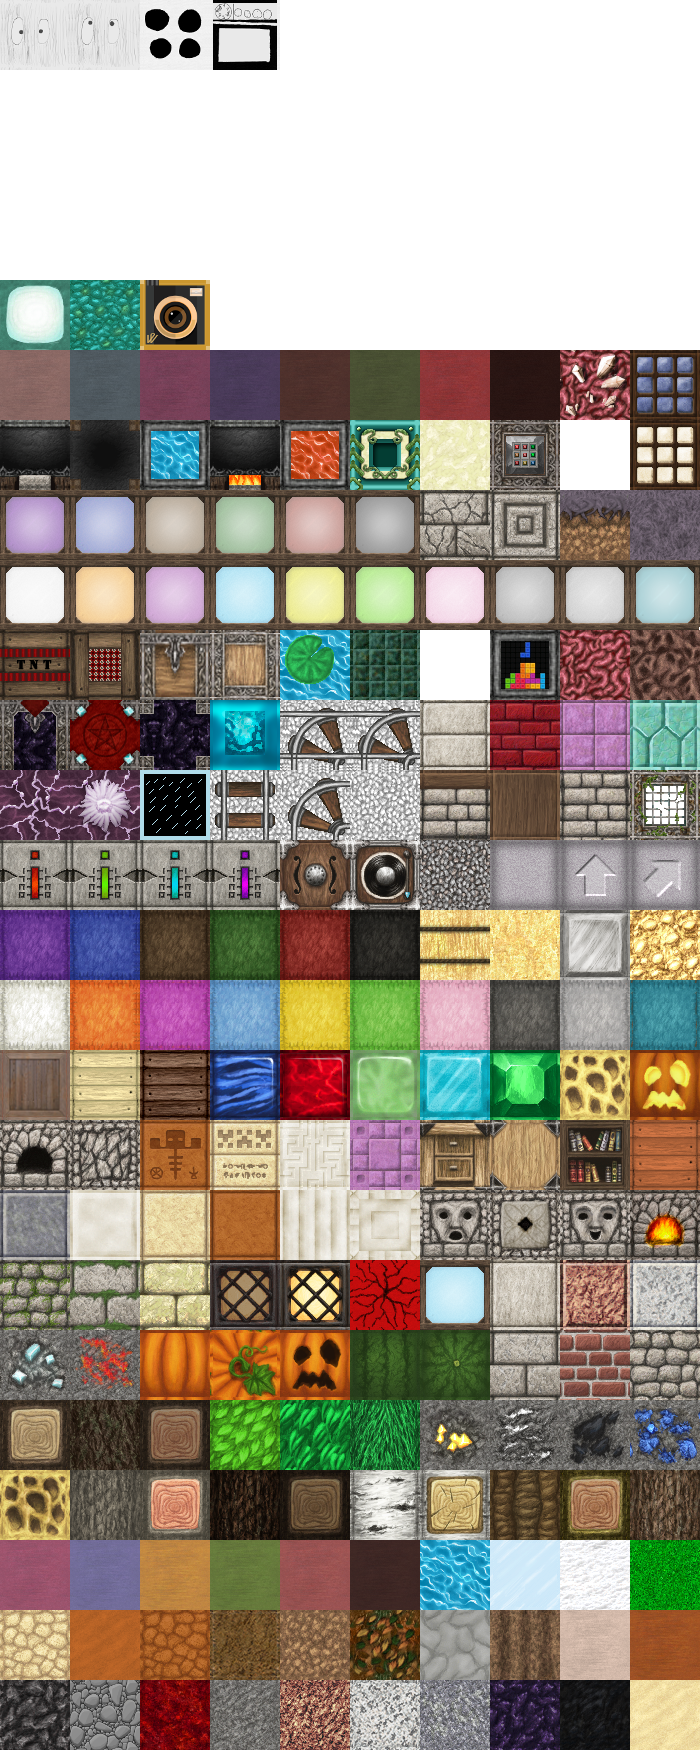
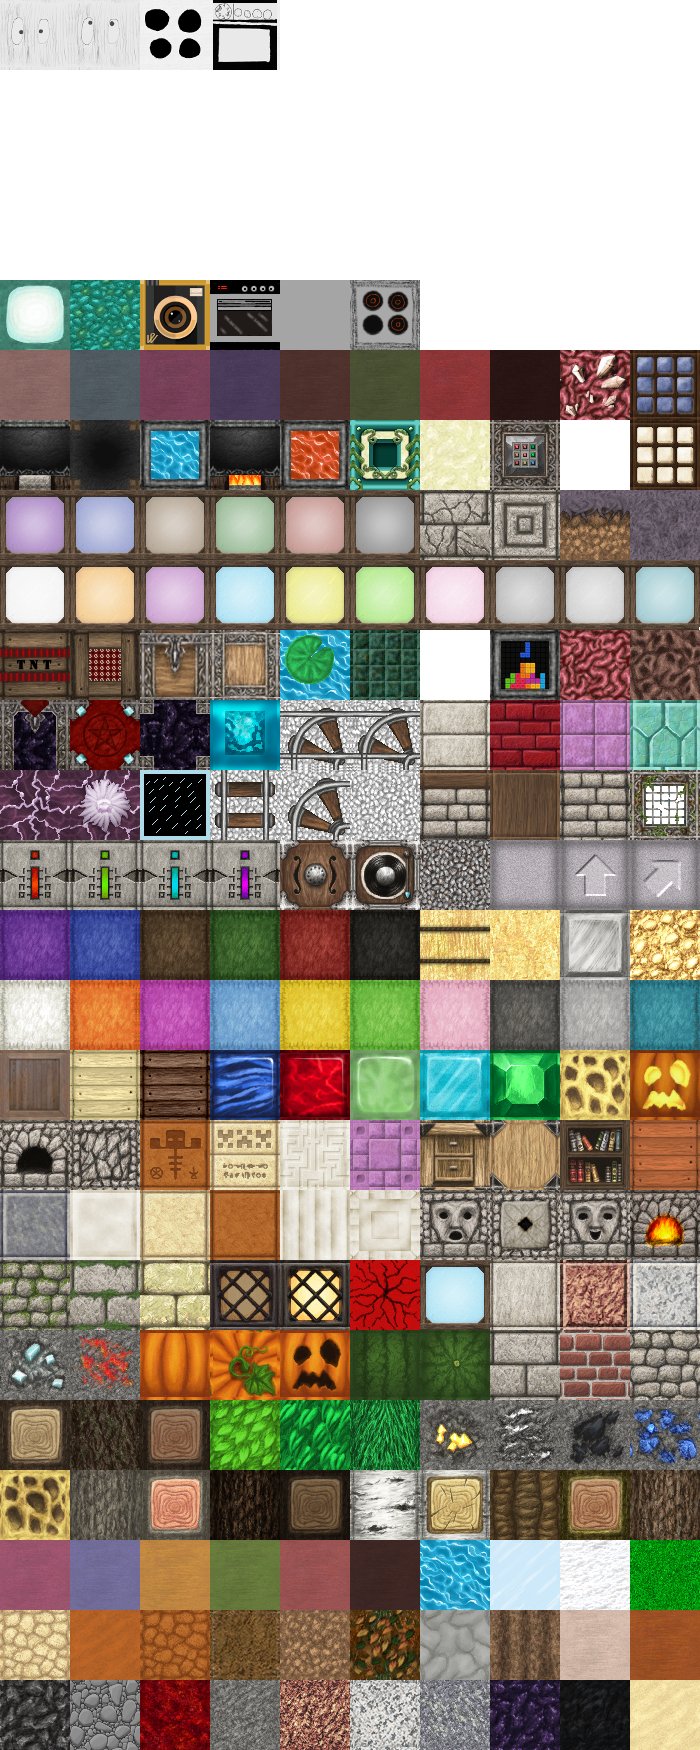
New Desing of Stove Block and Tresor Viewer

Changed region(s): [[0.3, 0.1543, 0.6, 0.216]]

diff --git a/project/wwwroot/views/TresorViewer.js b/project/wwwroot/views/TresorViewer.js
@@ -14,10 +14,13 @@ function TresorViewer(viewManager, serverIn, serverOut, player) {
 
     // gui elements
     const baseDiv            = GuiTools.createOverlayTransparent();
-    const textAreaPass       = GuiTools.createTextInput(baseDiv, null, "50%", "5%", "left", "Passwort", eventHandlersTextareaPass);
-    GuiTools.createLineBreak(baseDiv);
-    const textArea           = GuiTools.createTextArrea(baseDiv, "50%", "65%");
-    GuiTools.createLineBreak(baseDiv);  
+    const panel              = GuiTools.createCenteredPanel(baseDiv, "700px", "615px");
+    panel.style.backgroundColor = "rgb(149, 149, 149)";
+
+    const textAreaPass       = GuiTools.createTextInput(panel, null, "600px", "30px", "left", "Passwort", eventHandlersTextareaPass);
+    GuiTools.createLineBreak(panel);
+    const textArea           = GuiTools.createTextArrea(panel, "600px", "500px");
+    GuiTools.createLineBreak(panel);  
     textArea.disabled = true;  
 
     ///////////////////////////////////////////////////////////////////////////////////////////////////

diff --git a/project/wwwroot/models/BlockViewDescriptions.js b/project/wwwroot/models/BlockViewDescriptions.js
@@ -172,7 +172,7 @@ function initializeBlockViewDescriptions() {
     WorldInfo.addVerticalBlock(Block.Radio_1,       121, 121, 121);
     WorldInfo.addVerticalBlock(Block.Radio_2,       122, 122, 122);
     WorldInfo.addVerticalBlock(Block.Radio_3,       123, 123, 123);
-    WorldInfo.addVerticalBlock(Block.Stove,         243, 244, 242);
+    WorldInfo.addVerticalBlock(Block.Stove,         203, 204, 205);
     WorldInfo.addVerticalBlock(Block.Waterlily,      26,  26, 154);
     WorldInfo.addVerticalBlock(Block.Dirt_5,        178,  14, 179);
     WorldInfo.addVerticalBlock(Block.Caldron,       180, 181, 182); 
